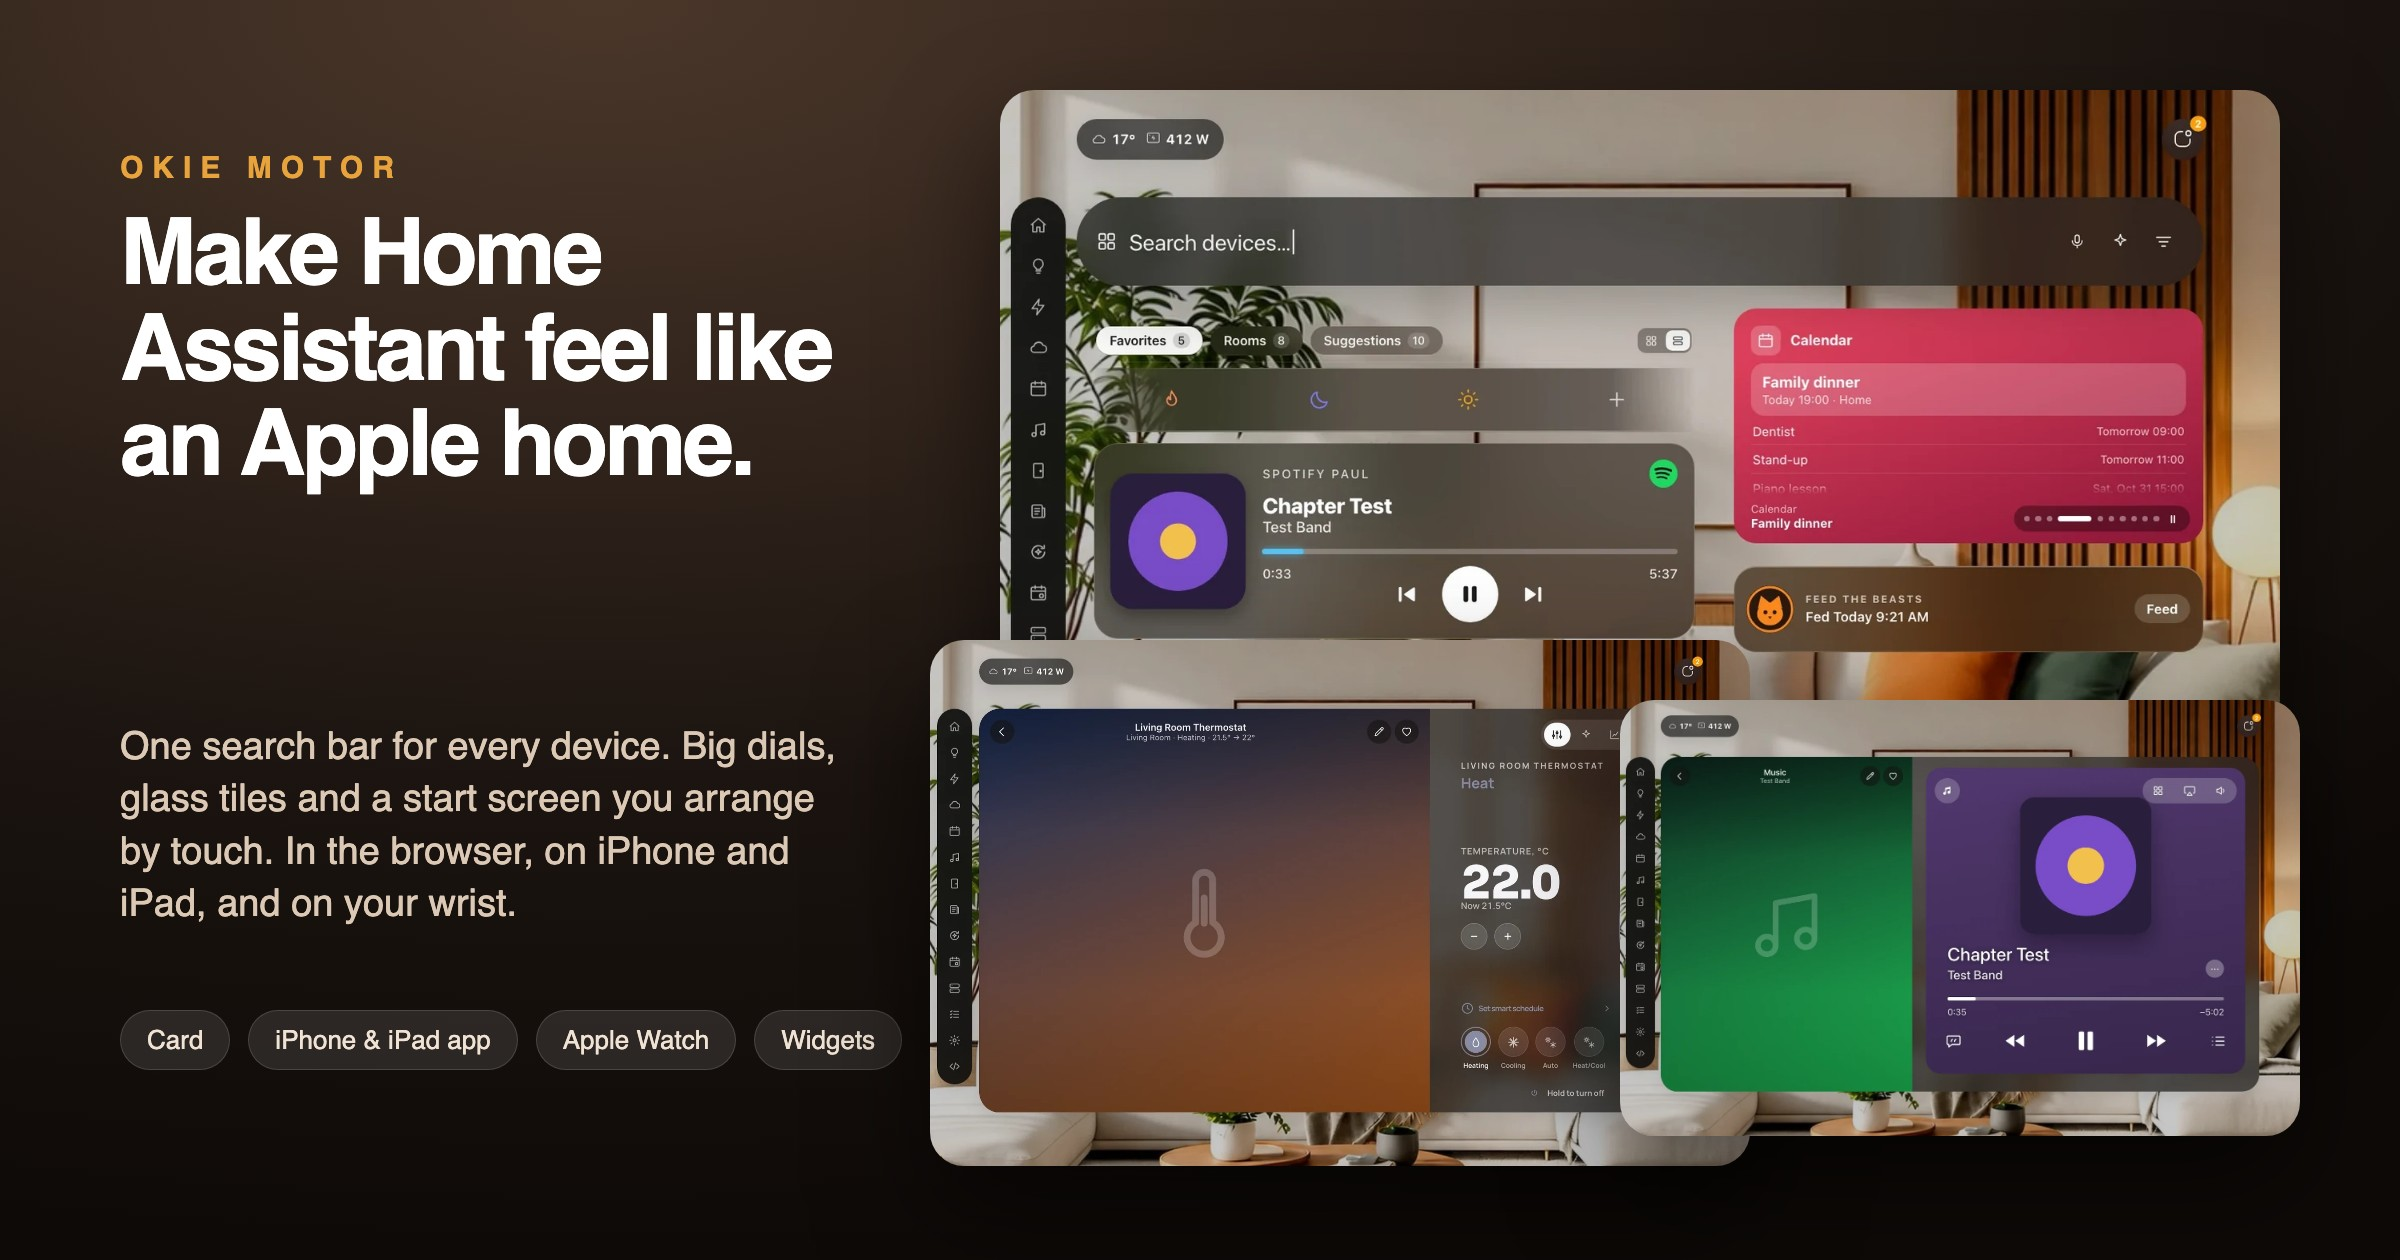
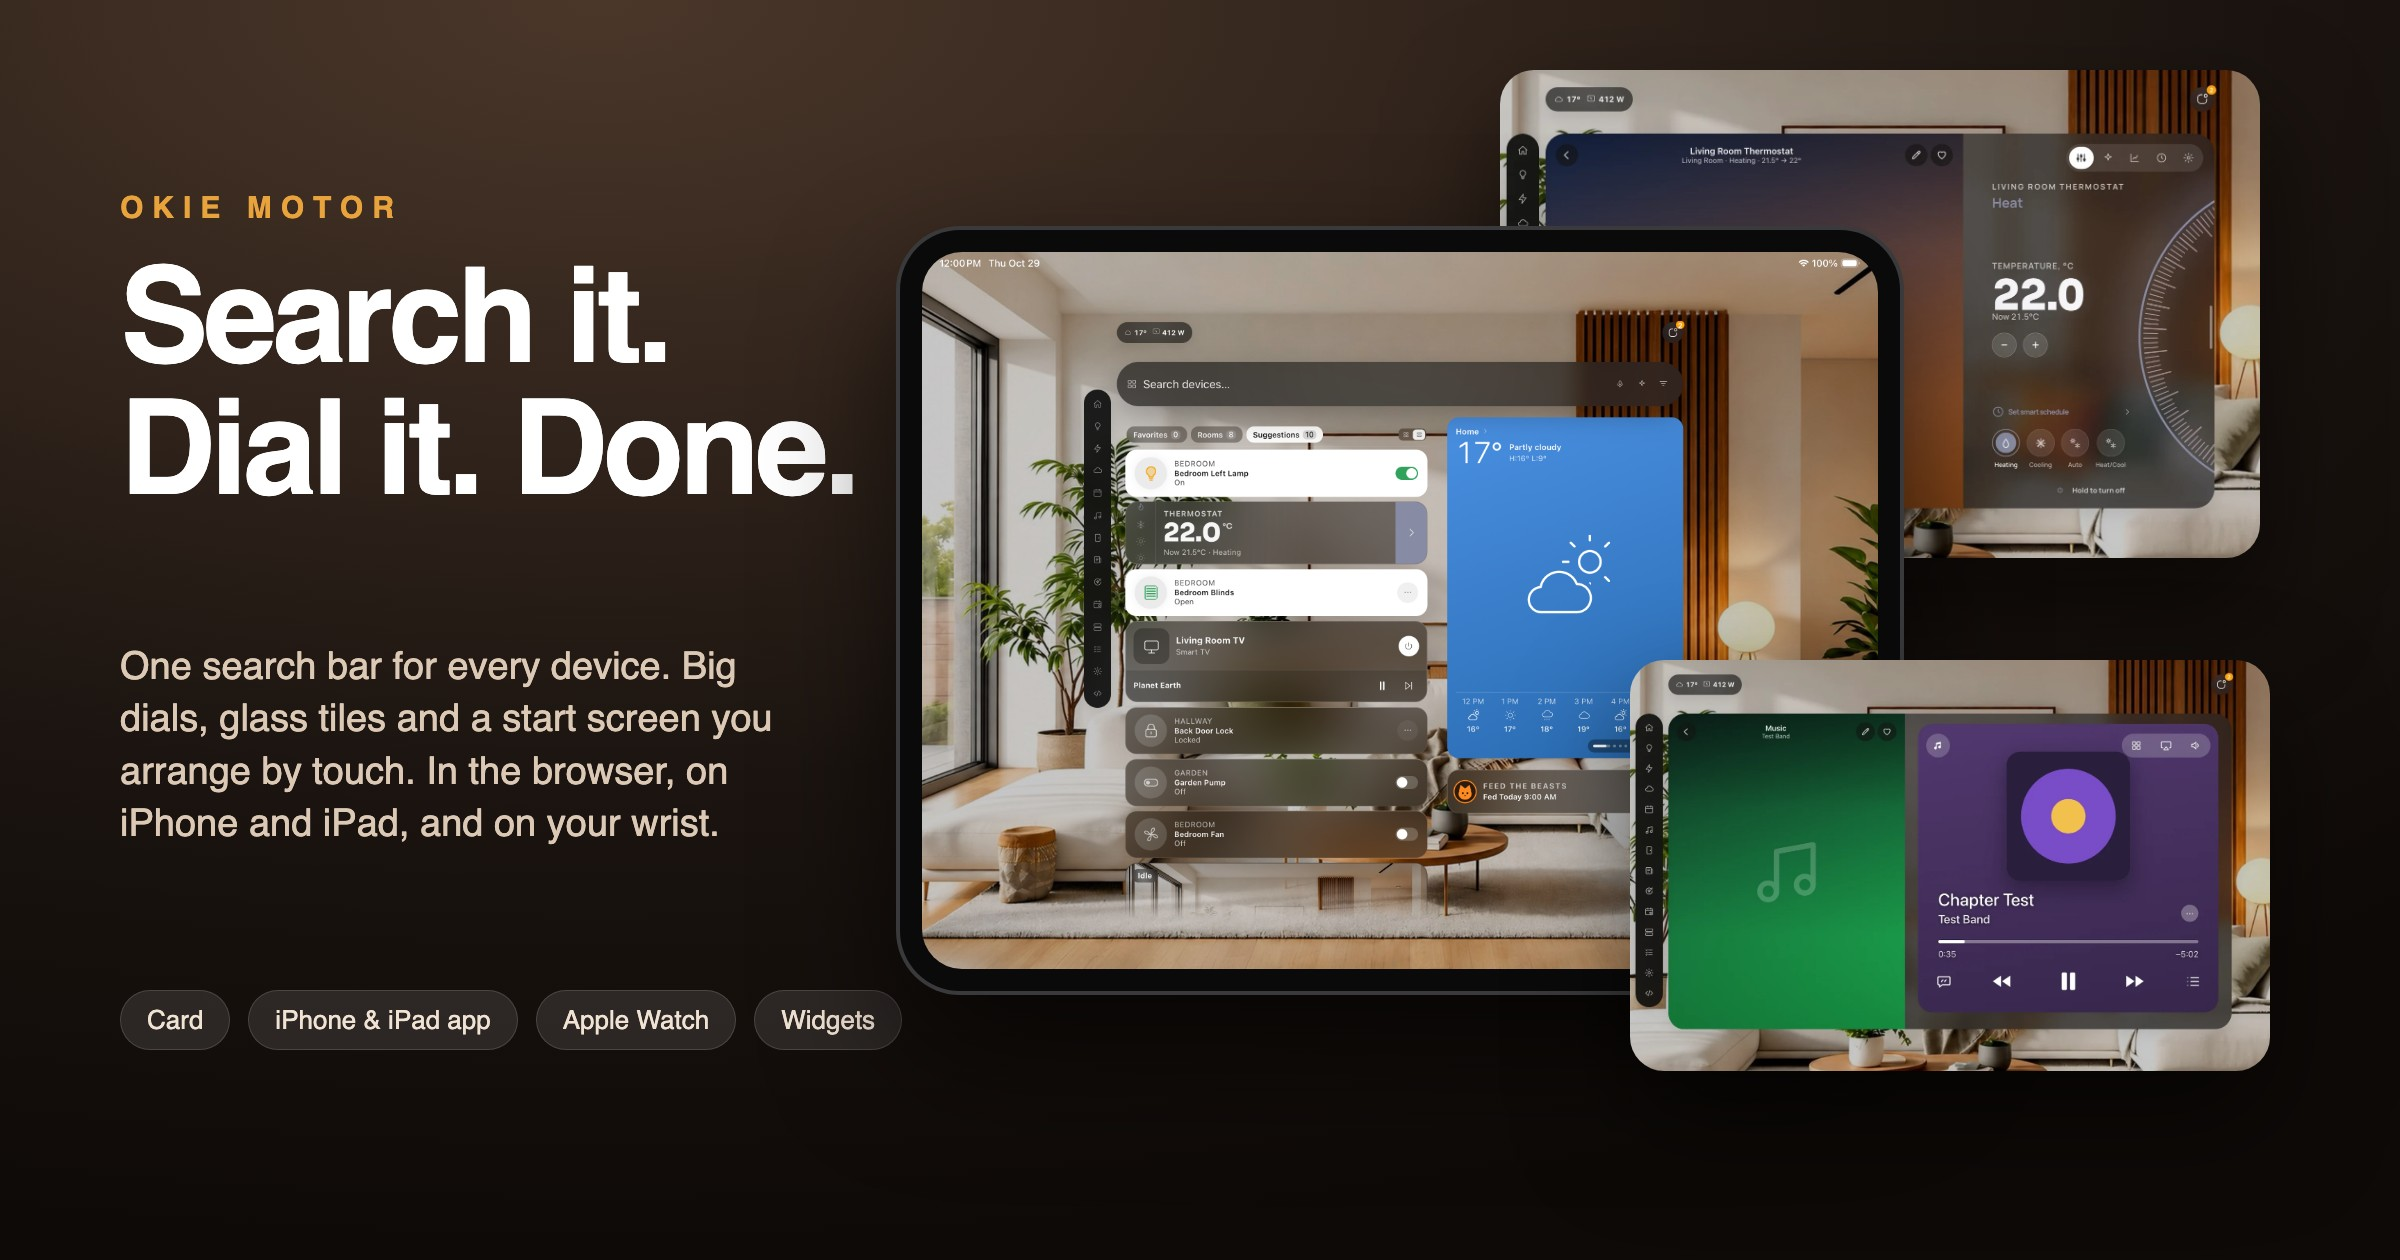
README hero: new slogan and picture (iPad start screen with thermostat and music)

diff --git a/README.md b/README.md
@@ -1,4 +1,4 @@
-<p align="center"><img src="docs/screenshots/showcase/hero.jpg" alt="Okie Motor: Home Assistant that feels like an Apple home" width="100%"></p>
+<p align="center"><img src="docs/screenshots/showcase/hero.jpg" alt="Okie Motor: search it, dial it, done" width="100%"></p>
 
 # Okie Motor
 
